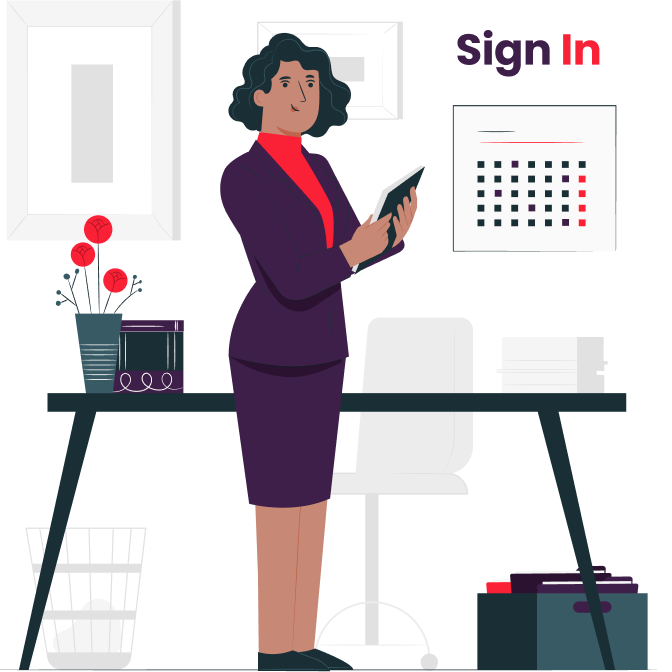
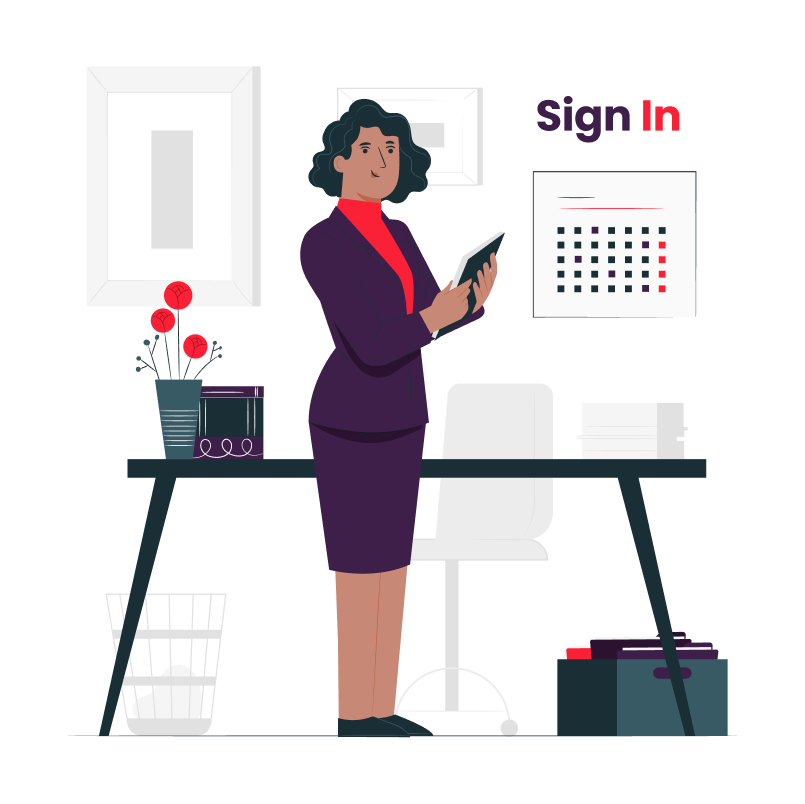
Added final styling

diff --git a/src/components/signup.tsx b/src/components/signup.tsx
@@ -35,7 +35,7 @@ const Signup: React.FC = () => {
     e.preventDefault();
 
     if (formData.password !== formData.retypePassword) {
-      toast.error('Passwords do not match',{position:"bottom-right"});
+      toast.error('Passwords do not match', { position: "bottom-right" });
       return;
     }
 
@@ -65,18 +65,23 @@ const Signup: React.FC = () => {
       navigate("/otp");
 
     } catch (error) {
-      toast.error(String(error),{position:"bottom-right"});
+      toast.error(String(error), { position: "bottom-right" });
     }
   };
 
   return (
     <section>
-      <img src={signup} />
-      <div>
+      <img className="logo" src={signup} />
+      <div className="box">
+        <div className="switch">
+          <h3>Let us know <span>!</span></h3>
+          <a href="/login"><p>Sign <span id="uline">In</span></p></a>
+        </div>
         <form onSubmit={handleSubmit}>
           <div>
             <label htmlFor="firstName">First Name:</label>
             <input
+              placeholder="First Name"
               type="text"
               id="firstName"
               name="firstName"
@@ -88,6 +93,7 @@ const Signup: React.FC = () => {
           <div>
             <label htmlFor="lastName">Last Name:</label>
             <input
+              placeholder="Last Name"
               type="text"
               id="lastName"
               name="lastName"
@@ -97,8 +103,9 @@ const Signup: React.FC = () => {
             />
           </div>
           <div>
-            <label htmlFor="password">Password:</label>
+            <label htmlFor="password">Set Password:</label>
             <input
+              placeholder="Set Password"
               type="password"
               id="password"
               name="password"
@@ -110,6 +117,7 @@ const Signup: React.FC = () => {
           <div>
             <label htmlFor="retypePassword">Retype Password:</label>
             <input
+              placeholder="Retype Password"
               type="password"
               id="retypePassword"
               name="retypePassword"
@@ -127,13 +135,14 @@ const Signup: React.FC = () => {
               onChange={handleChange}
               required
             >
-              <option value="">Select Contact Mode</option>
+              <option value="" selected disabled hidden>Contact Mode</option>
               <option value="email">Email</option>
             </select>
           </div>
           <div>
-            <label htmlFor="contact">Email:</label>
+            <label htmlFor="contact">Enter Email:</label>
             <input
+              placeholder="Enter Email"
               type="contact"
               id="contact"
               name="contact"
@@ -142,10 +151,10 @@ const Signup: React.FC = () => {
               required
             />
           </div>
-          <button type="submit">Submit</button>
+          <button className="submit" type="submit">Sign Up</button>
         </form>
       </div>
-      <ToastContainer/>
+      <ToastContainer />
     </section>
   )
 }

diff --git a/src/index.css b/src/index.css
@@ -5,5 +5,134 @@
 }
 
 section {
+  margin: 3rem;
   display: flex;
+  justify-content: space-evenly;
+  align-items: center;
+}
+
+article {
+  margin-top: 10rem;
+  display: flex;
+  justify-content: space-evenly;
+  align-items: center;
+  flex-direction: column;
+}
+
+.logo {
+  width: 40rem;
+}
+
+.box {
+  border: 2px solid #c4bcc7;
+  border-radius: 1rem;
+  height: 100%;
+  display: flex;
+  flex-direction: column;
+  justify-content: space-evenly;
+  align-items: center;
+  padding: 3rem; 
+}
+
+.switch {
+  width: 100%;
+  display: flex;
+  justify-content: space-between;
+  align-items: center;
+  padding: 0 0.2rem;
+}
+
+h3 {
+  font-size: 2rem;
+  font-weight: 900;
+  font-family: Arial, Helvetica, sans-serif;
+  color: #3A244A;
+}
+
+p {
+  font-size: 1.2rem;
+  font-weight: 900;
+  font-family: Arial, Helvetica, sans-serif;
+  color: #3A244A;
+}
+
+span{
+  color: #D72638;
+}
+
+#uline {
+  text-decoration-color: #D72638;
+  text-decoration-line: underline;
+}
+
+form {
+  display: flex;
+  flex-direction: column;
+  justify-content: space-evenly;
+  align-items: center;
+}
+
+label {
+  display: none;
+}
+
+input, select {
+  margin-top: 2rem;
+  font-size: medium;
+  width: 25rem;
+  height: 2rem;
+  padding: 0.7rem;
+  padding-bottom: 1rem;
+}
+
+input::placeholder{
+  color: #c4bcc7;
+}
+
+input {
+  border: none;
+  border-bottom: 2px solid #c4bcc7;
+}
+
+input:focus{
+  border-bottom: 2px solid black;
+  color: black;
+  outline: none;
+}
+
+select{
+  appearance: none; 
+  -webkit-appearance: none; 
+  -moz-appearance: none;
+  height: 2.78rem;
+  padding-bottom: 0.5rem;
+  border: none; 
+  outline: none; 
+  color: #c4bcc7;
+  border-bottom: 2px solid #c4bcc7;
+  margin-top: 1.2rem;
+}
+
+.submit, .change {
+  margin-top: 2.5rem;
+  width: 25rem;
+  height: 3.5rem;
+  padding: 0.7rem;
+  border-radius: 10px;
+  border: none;
+  background-color: #3A244A;
+  color: white;
+  font-size: larger;
+  font-weight: bolder;
+}
+
+.change {
+  margin-top: 1rem;
+  border: 2px solid #3A244A;
+  background-color: white;
+  color: #3A244A;
+}
+
+button:hover {
+  cursor: pointer;
 }

diff --git a/src/components/login.tsx b/src/components/login.tsx
@@ -60,8 +60,12 @@ const Login: React.FC = () => {
 
   return (
     <section>
-      <img src={login} />
-      <div>
+      <img className="logo" src={login} />
+      <div className="box">
+        <div className="switch">
+          <h3>Fill what we know <span>!</span></h3>
+          <p></p>
+        </div>
         <form onSubmit={handleSubmit}>
           <div>
             <label htmlFor="mode">Contact Mode:</label>
@@ -72,13 +76,14 @@ const Login: React.FC = () => {
               onChange={handleChange}
               required
             >
-              <option value="">Select Contact Mode</option>
+              <option value="" style={{display: 'none'}}>Contact Mode</option>
               <option value="email">Email</option>
             </select>
           </div>
           <div>
             <label htmlFor="contact">Email:</label>
             <input
+              placeholder="Enter Email"
               type="contact"
               id="contact"
               name="contact"
@@ -90,6 +95,7 @@ const Login: React.FC = () => {
           <div>
             <label htmlFor="password">Password:</label>
             <input
+              placeholder="Set Password"
               type="password"
               id="password"
               name="password"
@@ -98,7 +104,8 @@ const Login: React.FC = () => {
               required
             />
           </div>
-          <button type="submit">Submit</button>
+          <button className="submit" type="submit">Sign In</button>
+          <button className="change" onClick={()=>navigate("/signup")}>Sign Up</button>
         </form>
       </div>
       <ToastContainer/>

diff --git a/src/components/otp.tsx b/src/components/otp.tsx
@@ -61,12 +61,17 @@ const Otp: React.FC = () => {
 
   return (
     <section>
-      <img src={signup} />
-      <div>
+      <img className="logo" src={signup} />
+      <div className="box">
+        <div className="switch">
+          <h3>OTP <span>Verification</span></h3>
+          <p></p>
+        </div>
         <form onSubmit={handleSubmit}>
           <div>
             <label htmlFor="otp">OTP:</label>
             <input
+              placeholder="Enter OTP:"
               type="otp"
               id="otp"
               name="otp"
@@ -75,7 +80,7 @@ const Otp: React.FC = () => {
               required
             />
           </div>
-          <button type="submit">Submit</button>
+          <button className="submit" type="submit">Submit</button>
         </form>
       </div>
       <ToastContainer/>

diff --git a/src/components/welcome.tsx b/src/components/welcome.tsx
@@ -16,10 +16,10 @@ const Welcome: React.FC = () => {
     };
 
     return (
-        <>
-            <div>welcome</div>
-            <button onClick={handleLogout}>Logout</button>
-        </>
+        <article>
+            <h1>WELCOME</h1>
+            <button className="submit" onClick={handleLogout}>Logout</button>
+        </article>
     )
 }
 
